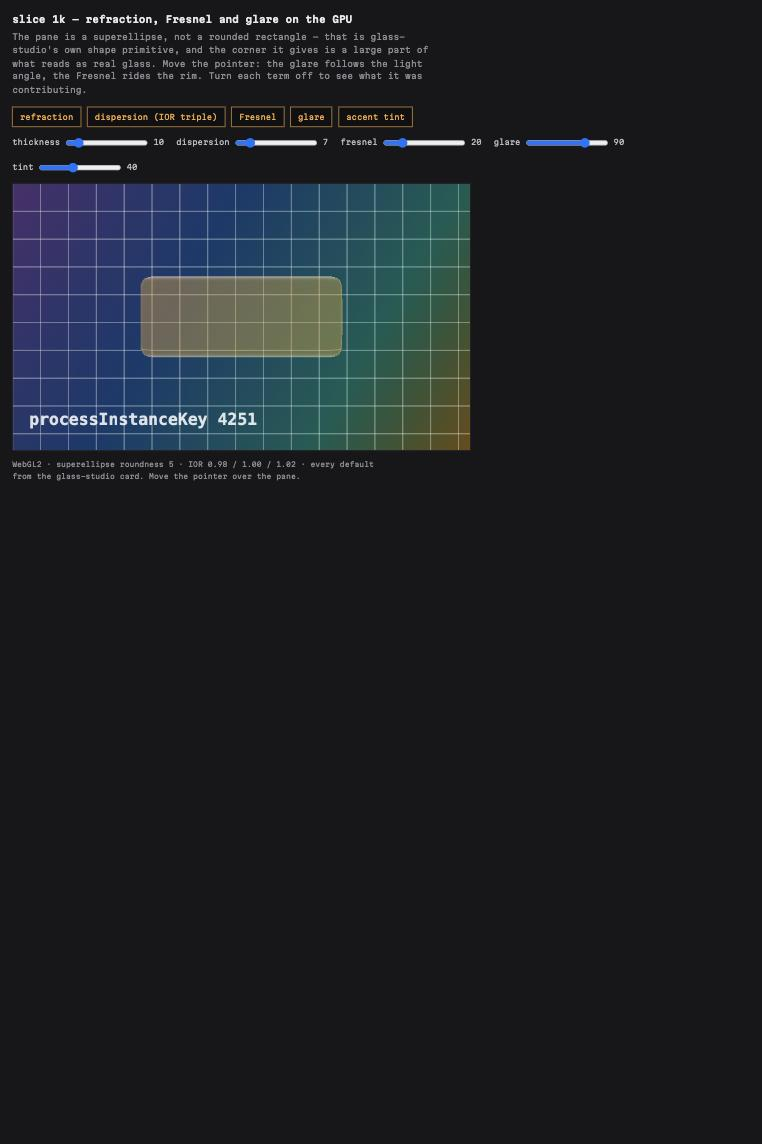
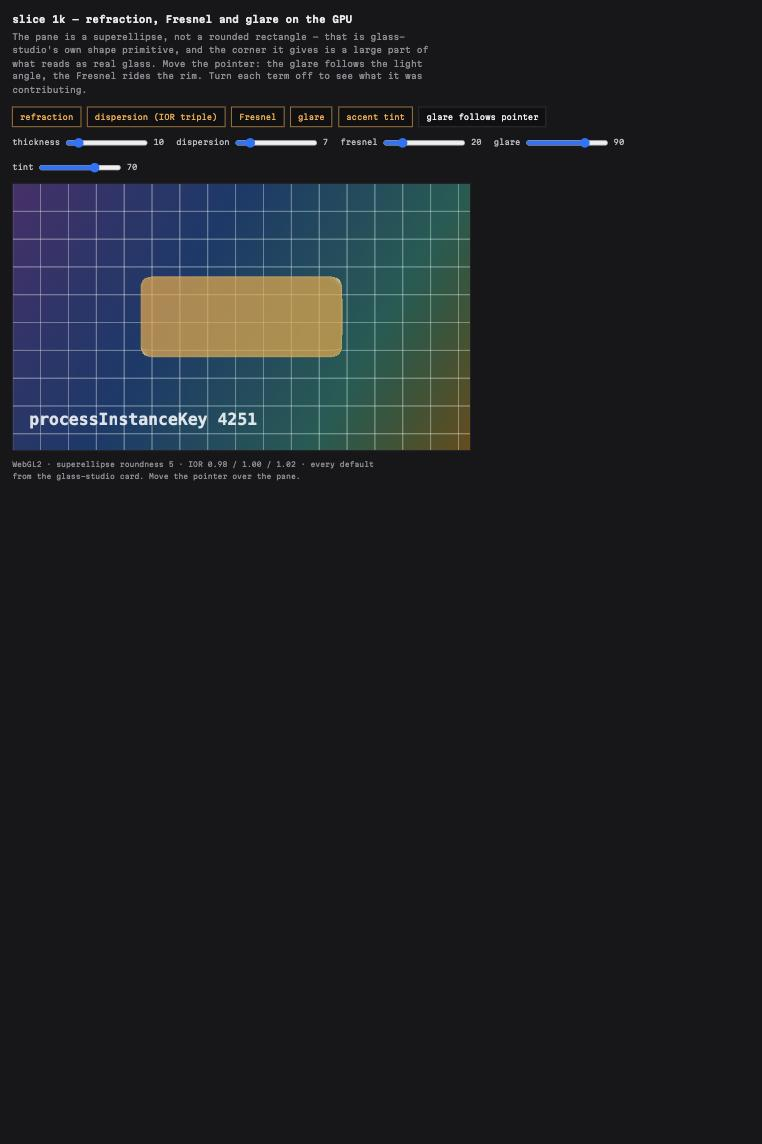
feat(lab): settle the glare as fixed, and the GPU pane's tint at 70
Owner's rulings on the render. The glare does not follow the pointer — the
reference's fixed -45 degrees is the resting state — with a note that a future
slice may let the light respond to other elements on the page rather than to
the cursor. The easing and the angle unwrapping stay: both are worth having
whenever the angle does move, and both were missing.

Tint 70, which lines up with slice 1's CSS pane at 0.72, so the two routes
land on the same translucency instead of needing to be reconciled later. The
refraction survives there but goes quiet — it reads as a bend in the grid
rather than as a lens, and anything wanting more has to come from the Fresnel
and the glare, not from thinning the tint.

Still open and now the only tuning left: thickness is in the probe's own
pixels, not glass-studio's units on its 200x200 shape, so 10 here is not the
card's 20 under another name.

Claude-Session: https://claude.ai/code/session_01VvHECanz7bBWui8Y4Z1sjS

Changed region(s): [[0.1811, 0.2142, 0.4528, 0.3365], [0.0906, 0.1224, 0.1509, 0.153], [0.6037, 0.0918, 0.6339, 0.1224]]

diff --git a/docs/specs/2027-improve-aesthetics.md b/docs/specs/2027-improve-aesthetics.md
@@ -399,13 +399,21 @@ that matters:
    move the direction the light comes from. A light source that chases the cursor
    is the thing that reads as unreal, and no amount of easing fixes it.
 
-So the probe now eases and unwraps — both worth having — but `follow` defaults
-**off**, and the reference's fixed `-45°` is the resting state. The toggle stays
-so the two can be compared rather than argued about.
+So the probe now eases and unwraps — both worth having — but `follow` is **off**,
+and the reference's fixed `-45°` is the resting state. *Owner, 2026-09-11:
+settled that way, with the note that a future slice may let the light respond to
+other elements on the page rather than to the cursor.* The toggle stays so the
+two can be compared rather than argued about.
 
-Still open: whether the tint at 0.72 leaves enough of the refraction visible —
-the probe opens at 0.40 — and the thickness, which is in the probe's own pixels
-rather than `glass-studio`'s units on its 200 × 200 shape.
+**Tint 70 on the GPU pane.** *Owner, same pass.* Which lines up with slice 1's
+CSS pane at 0.72 — the two routes land on the same translucency rather than
+needing to be reconciled later. The refraction survives at that tint but goes
+quiet: it reads as a bend in the grid rather than as a lens, and anything wanting
+more has to come from the Fresnel and the glare, not from thinning the tint.
+
+Still open: the thickness, which is in the probe's own pixels rather than
+`glass-studio`'s units on its 200 × 200 shape, so the value 10 here is not the
+card's 20 under another name.
 
 ## Slice 1 rulings (AC-6)
 
